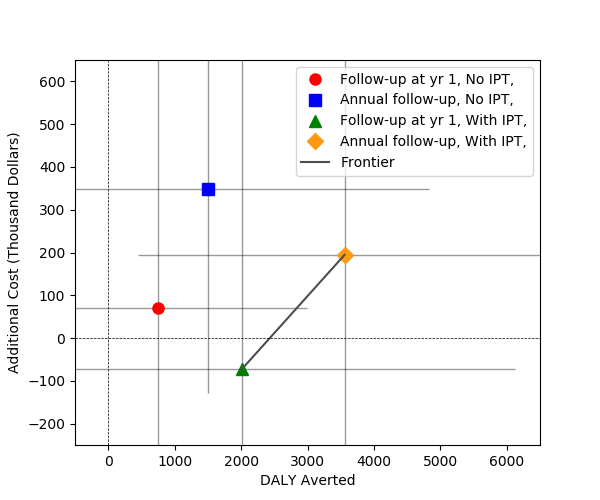
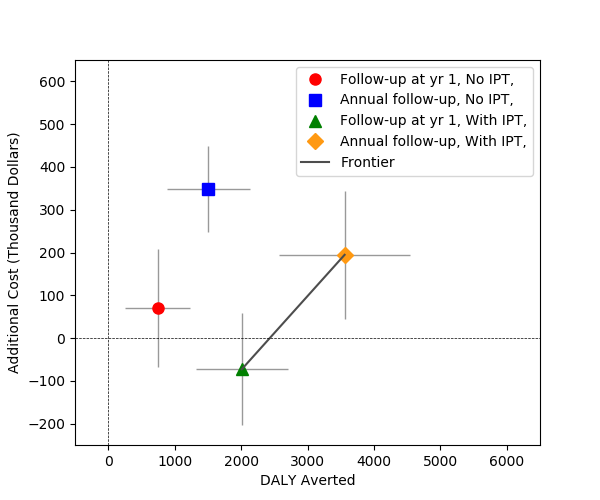
TB

diff --git a/tb/TB_CEA.py b/tb/TB_CEA.py
@@ -49,7 +49,7 @@ series = [
 Cls.populate_series(series,
                     csv_filename='csvfiles\TBScenarios.csv',
                     save_cea_results=True,
-                    interval=Econ.Interval.PREDICTION,
+                    interval=Econ.Interval.CONFIDENCE,
                     x_axis_multiplier=1,
                     y_axis_multiplier=1/1e3)
 
